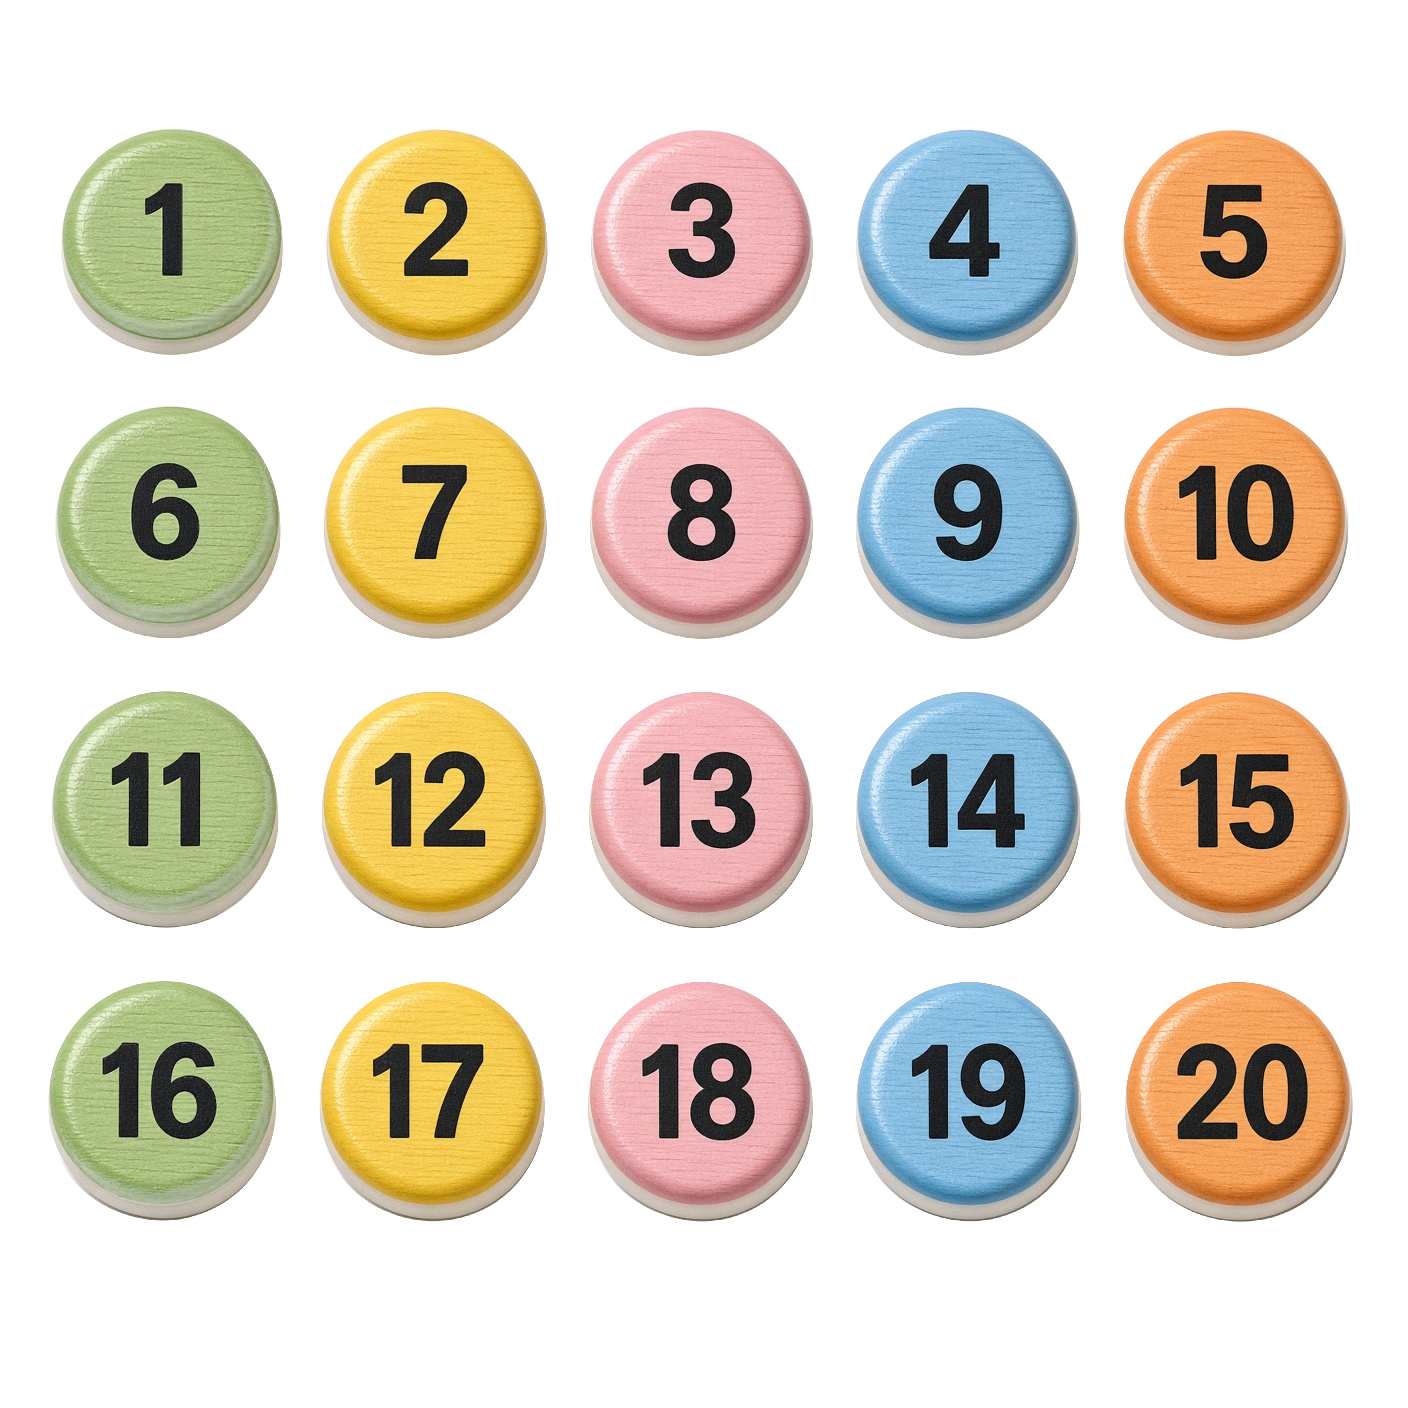
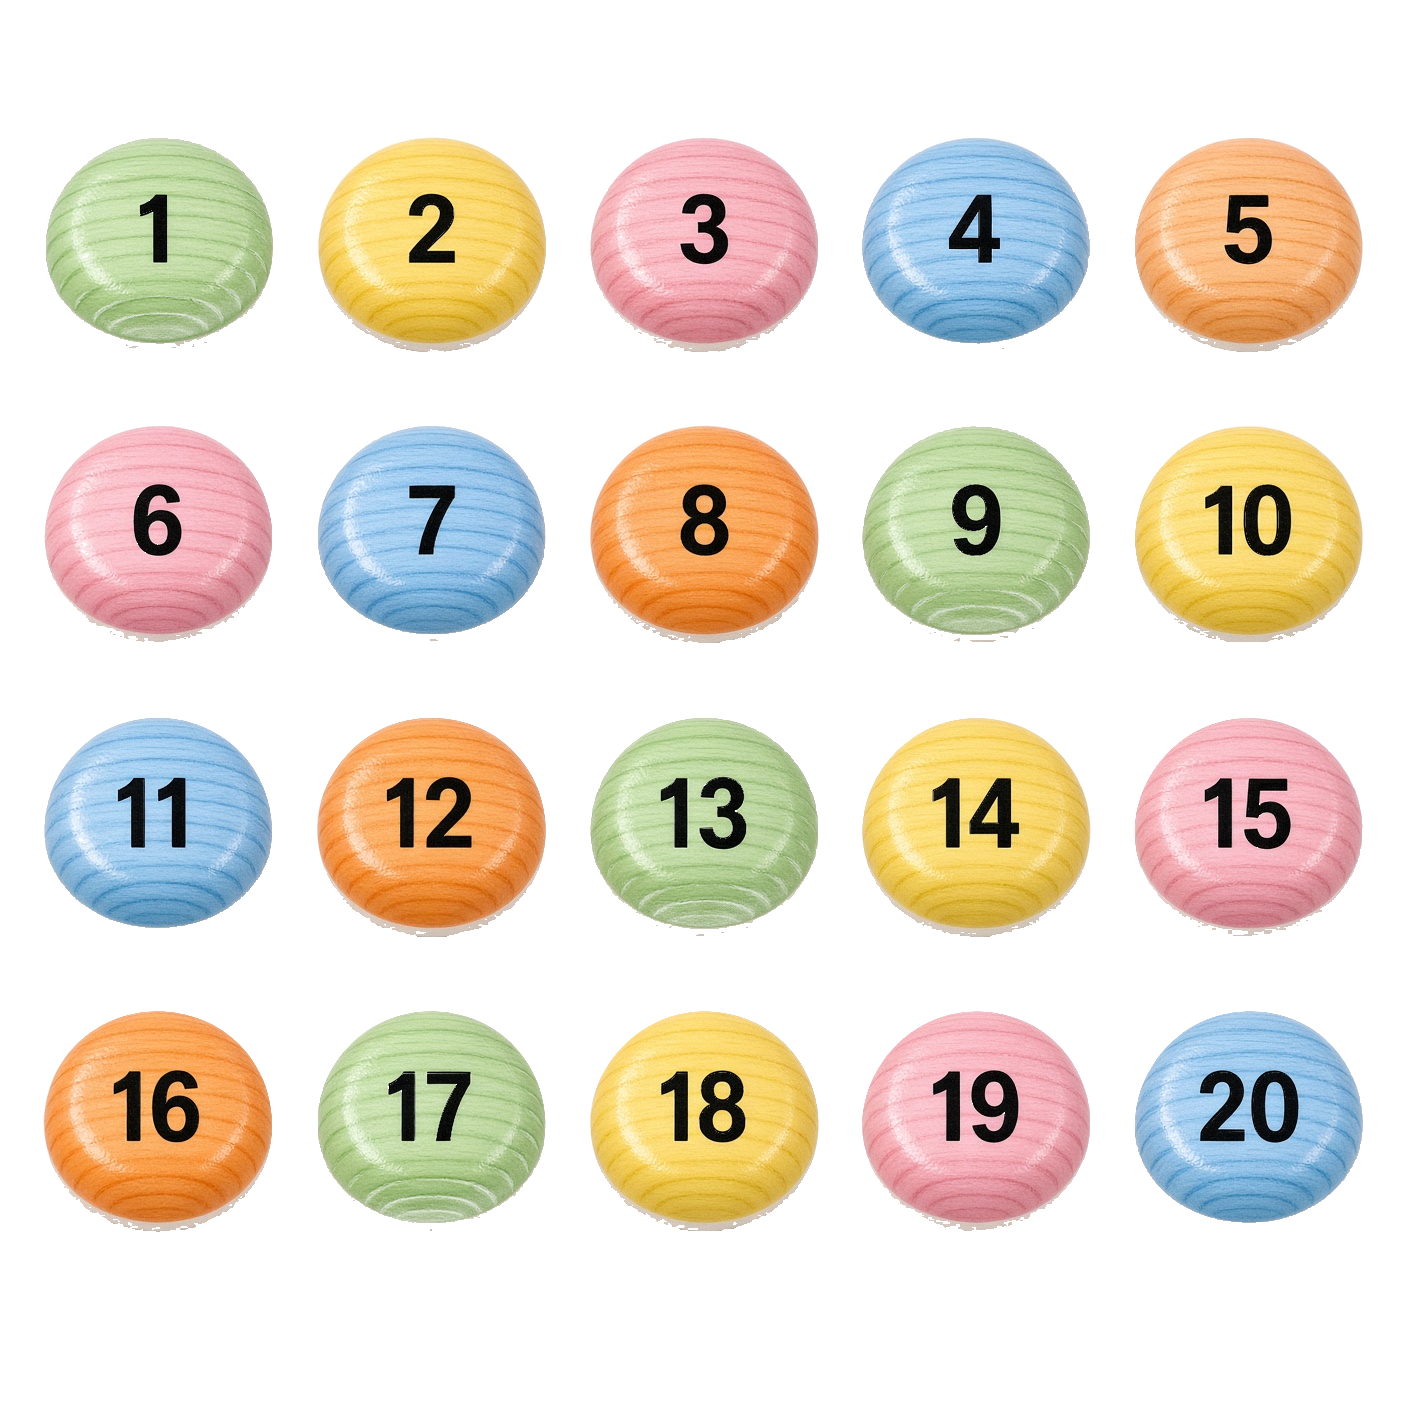
Lucky Numbers 3D: remplace la planche-contact des jetons
Nouvelle photo fournie par l'utilisateur (palets en bois vernis, couleurs
mélangées plutôt que par colonne). Grille 5x4 re-mesurée par analyse de
pixels (fond toujours réellement transparent), constantes de recadrage
mises à jour en conséquence.

diff --git a/src/three/luckyNumbersScene.js b/src/three/luckyNumbersScene.js
@@ -317,8 +317,8 @@ function loadPiocheTexture() {
  * RÉELLEMENT transparent. Centres/rayons mesurés une fois par analyse de
  * pixels (bbox alpha>20 par bande de projection ligne/colonne).
  */
-const TOKEN_SHEET_COL_X = [165, 433, 700, 969, 1238];
-const TOKEN_SHEET_ROW_Y = [242, 523, 810, 1101];
+const TOKEN_SHEET_COL_X = [158, 431, 704, 976, 1248];
+const TOKEN_SHEET_ROW_Y = [244, 534, 827, 1121];
 const TOKEN_SHEET_CROP_HALF = 125;
 
 function loadTokensSheetImage() {
